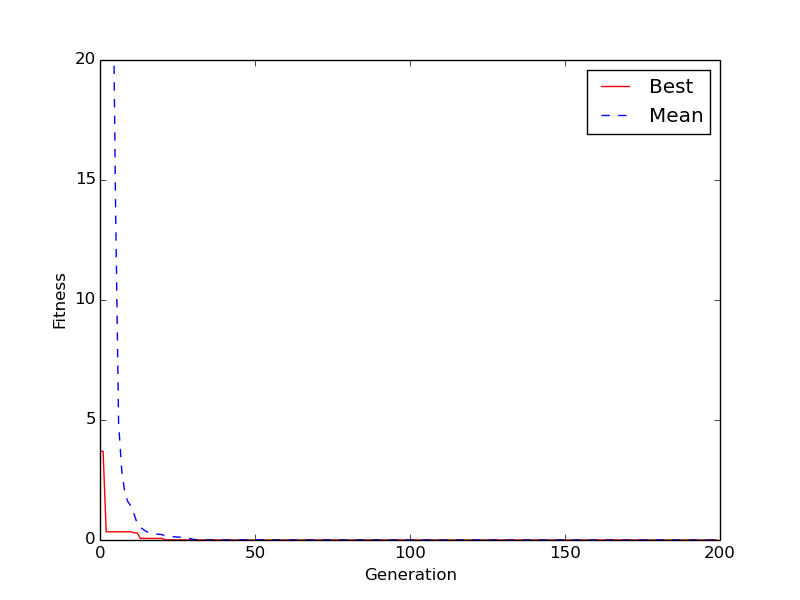
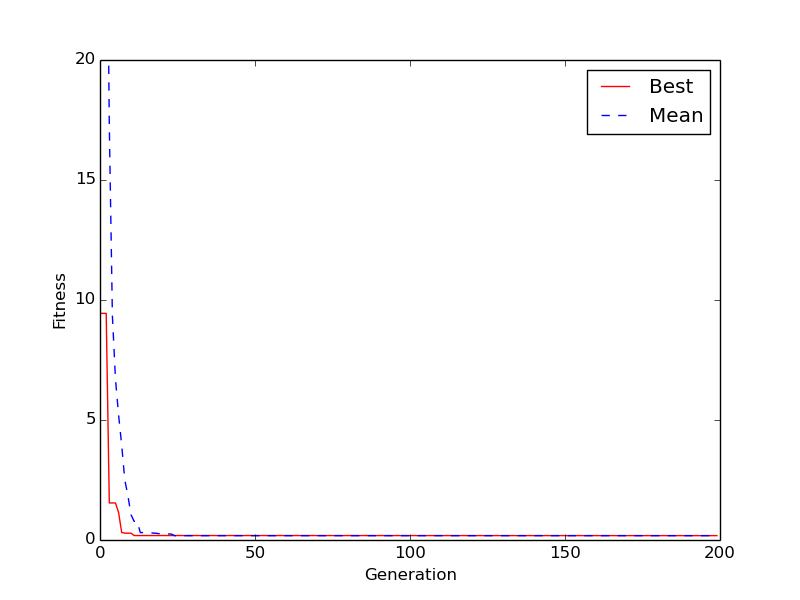
1st implementation of benchmark scoring

diff --git a/Species_Module/Species_class.py b/Species_Module/Species_class.py
@@ -1,0 +1,168 @@
+################################################################################
+#                    Automatic species builder - play god!
+#
+#       --Call the species class with the following variables
+#
+#   N       = Maximum population size
+#   D       = Number of discrete genes in the DNA of an individual
+#   gen_max = Number of generations to be allocated memory
+#   hypers  = List of hyperparameters to be passed to every individual
+#
+#       --This allocates data for a species, to initiallise the first generation
+#       use the species methods:
+#
+#   species.initialise(bounds)
+#       Initialise the 0th generation of the species with random DNA
+#       DNA is assigned by a uniform random distribution limits as per bounds
+#
+#   species.convergence_plot()
+#       Plots the best and mean fitness convergence for the species against gen
+#
+#   species.meteor() 
+#       Destroys the population with a meteor/ash cloud combo
+#
+#       --To interact directly with a specific generation use species.gen[n],
+#       the generation level methods are:
+#
+#   species.gen[].rnd_sample(n, excl)
+#       Returns n random individuals from the population
+#
+#   species.gen[].best_fit()
+#       Returns the individual with the best fitness value
+#                
+#   species.gen[].mean_fit()
+#       Returns the arithmetic mean of the fitnesses in a generation 
+#
+#   species.gen[].nuke(std)
+#       Pertubates the current population dna with standard deviation std
+#
+#       --Operations at the individual level are called by referencing 
+#       a specific individual:
+#
+#   species.gen[].pool[].dna
+#       Returns the dna of a specific individual
+#
+#   species.gen[].pool[].fitness
+#       Returns the fitness of the individual
+#
+#   species.gen[].pool[].kill()
+#       'this kills the instance'
+#        
+################################################################################
+
+import numpy as np
+import random as rnd
+
+class gene:
+    def __init__(self, D, hypers, n):
+        self.n = n
+        self.dna = np.zeros((D))
+        self.trial = np.zeros((D))
+        self.hyper = hypers
+        self.fitness= 10.0**300
+    
+    def apply_bounds (self, bounds):
+        for i in range(len(self.dna)):
+            if self.dna[i] < bounds[i][0]:
+                #self.dna[i] += (bounds[i][0] - self.dna[i])*0.25
+                self.dna[i] = bounds[i][0]
+                #print 'too small'
+            elif self.dna[i] > bounds[i][1]:
+                #self.dna[i] += (bounds[i][1] - self.dna[i])*0.25
+                self.dna[i] = bounds[i][1]
+                #print 'too big'
+
+        
+        
+class gene_pool:
+    def __init__(self, N, D, hypers):
+        self.pool = np.zeros((N), dtype=object)
+        for i in range(N):
+            self.pool[i] = gene(D, hypers, i)
+        self.survivors = 0
+        self.discards = 0
+        self.F = 0.0
+        self.CR = 0.0
+
+    def return_rnd(self, n, excl=None):
+        size = range(len(self.pool))
+        if excl != None:
+            size.remove(excl)
+        key = rnd.sample(size, n)
+        sample = np.zeros((n), dtype=object)
+        for i in range(n):
+            sample[i] = self.pool[key[i]]
+        return sample
+            
+    def best(self):
+        top  = 10**300
+        best = 0
+        for gene in self.pool:
+            if gene.fitness < top:
+                best = gene
+                top  = gene.fitness
+        return best
+
+        
+    def best_fit(self):
+        top = 10.1**300
+        for gene in self.pool:
+            if gene.fitness < top:
+                top = gene.fitness
+        return top    
+   
+    def mean_fit(self):
+        add = 0.0
+        ind = 0.0
+        for gene in self.pool:
+            add += gene.fitness
+            ind += 1
+        return add / ind   
+        
+    def std_fit(self):
+        mean = self.mean_fit()
+        add = 0.0
+        for gene in self.pool:
+            add += (gene.fitness - mean)**2
+        return (add / len(self.pool))**0.5
+            
+        
+class species:
+    def __init__(self, N, D, gen_max, hypers=None):
+        self.gen = np.zeros((gen_max), dtype=object)
+        self.gen_max = gen_max
+        self.D = D
+        self.N = N
+        for i in range(gen_max):
+            self.gen[i] = gene_pool(N, D, hypers)
+            
+    def initialise(self, boundry_vector):
+        for gene in self.gen[0].pool:
+            for i in range(self.D):
+                gene.dna[i] = rnd.uniform(boundry_vector[i][0], boundry_vector[i][1])
+    
+    def initial_fit(self, fit):   
+        for gene in self.gen[0].pool:
+            gene.fitness = fit(gene.dna)
+            
+    def convergence_plot(self, name, fitmax):
+        import matplotlib
+        matplotlib.use('Agg')
+        import matplotlib.pyplot as plt
+        
+        aver = np.zeros((self.gen_max))
+        mean = np.zeros((self.gen_max))
+        for i in range(self.gen_max):
+            aver[i] = self.gen[i].best().fitness
+            mean[i] = self.gen[i].mean_fit()
+       
+        plt.figure()
+        plt.plot(aver, 'r-', label='Best', hold=True)
+        plt.plot(mean, 'b--', label='Mean', hold=True)
+        plt.xlabel('Generation')
+        plt.ylabel('Fitness')
+        plt.legend()
+        plt.axis([0, self.gen_max, 0, fitmax])
+        plt.savefig(name)    
+
+

diff --git a/Benchmarks/suites.py b/Benchmarks/suites.py
@@ -28,9 +28,10 @@ class suite_2D:
         with open('Benchmarks/2D_outputs/2D_Results.text', 'w') as f:
             for function, limit in zip(self.suite_2D, self.bounds_2D):
                 f.write('Function: '+function.__name__+'\n')
-                f.write("{: <5} {: <20} {: <40} {: <20}\n".format('Run', 'Best', 'Mean', 'std'))
+                f.write("{: <5} {: <15} {: <15} {: <15}\n".format('Run', 'Best', 'Mean', 'std'))
                 b = []
                 m = []
+                v = []
                 for run in range(n_runs):
                     actual = self.evo(self.hypers, self.pop_param, limit, function)
                     actual.run()
@@ -38,17 +39,17 @@ class suite_2D:
                     best = actual.genome.gen[actual.gen].best_fit()
                     best_vect = actual.genome.gen[actual.gen].best().dna
                     mean = actual.genome.gen[actual.gen].mean_fit()
+                    std = actual.genome.gen[actual.gen].std_fit()
                     
                     b.append(best)
+                    v.append(best_vect)
                     m.append(mean)
                     
-                    f.write("{: <5} {: <10,.04f} {: <30} {: <10,.04f}\n".format(run+1,best,list(best_vect),mean))
+                    f.write("{: <5} {: <15,.10f} {: <15,.10f} {: <15,.10f}\n".format(run+1,best,mean,std))
                     
-                f.write('\nOverall best fitness: '+str(min(b))+'\n')
-                f.write('Achieved by parameters: '+''+'\n')
+                f.write('Overall best fitness: '+str(min(b))+'\n')
+                f.write('Achieved by parameters: '+str(v[b.index(min(b))])+'\n')
                 f.write('True global minima is at: '+'[0.,0.]'+'\n\n\n')
-                
-                
                 
                 actual.genome.convergence_plot('Benchmarks/2D_outputs/2D_benchmark_convergence_plot_for_'+function.__name__+'.png', 20)
 

diff --git a/Benchmarks/optimisation_functions.py b/Benchmarks/optimisation_functions.py
@@ -20,6 +20,13 @@ def Ackleys (vector):# Fitness function [Ackleys] ND problem GM@ x_i = 0 f(X) = 
 	return y
 # SADE is able to find the GM reliably with 7-9k function calls
 
+def Ackley_score(best, nfe):
+	gm    = [0,0]
+	diff  = 1
+	mse   = (gm-best)**2
+	score = (mse * nfe / diff)
+	
+
 def Bukin6 (vector): # Fitness function [Buking no6] 2D problem GM@ [-10, 1] f(x) = 0
 	x1 = vector[0] #evaluate on [-15, 5]
 	x2 = vector[1] #evaluate on [-3, 3]
@@ -90,6 +97,3 @@ def griewank (vector): #Fitness function [griewank] ND problem GM@ xi = 0 f(x) =
 
 
 
-
-####################### testcall
-print(griewank([0, 0, 0.5, 0.1, 100]))
